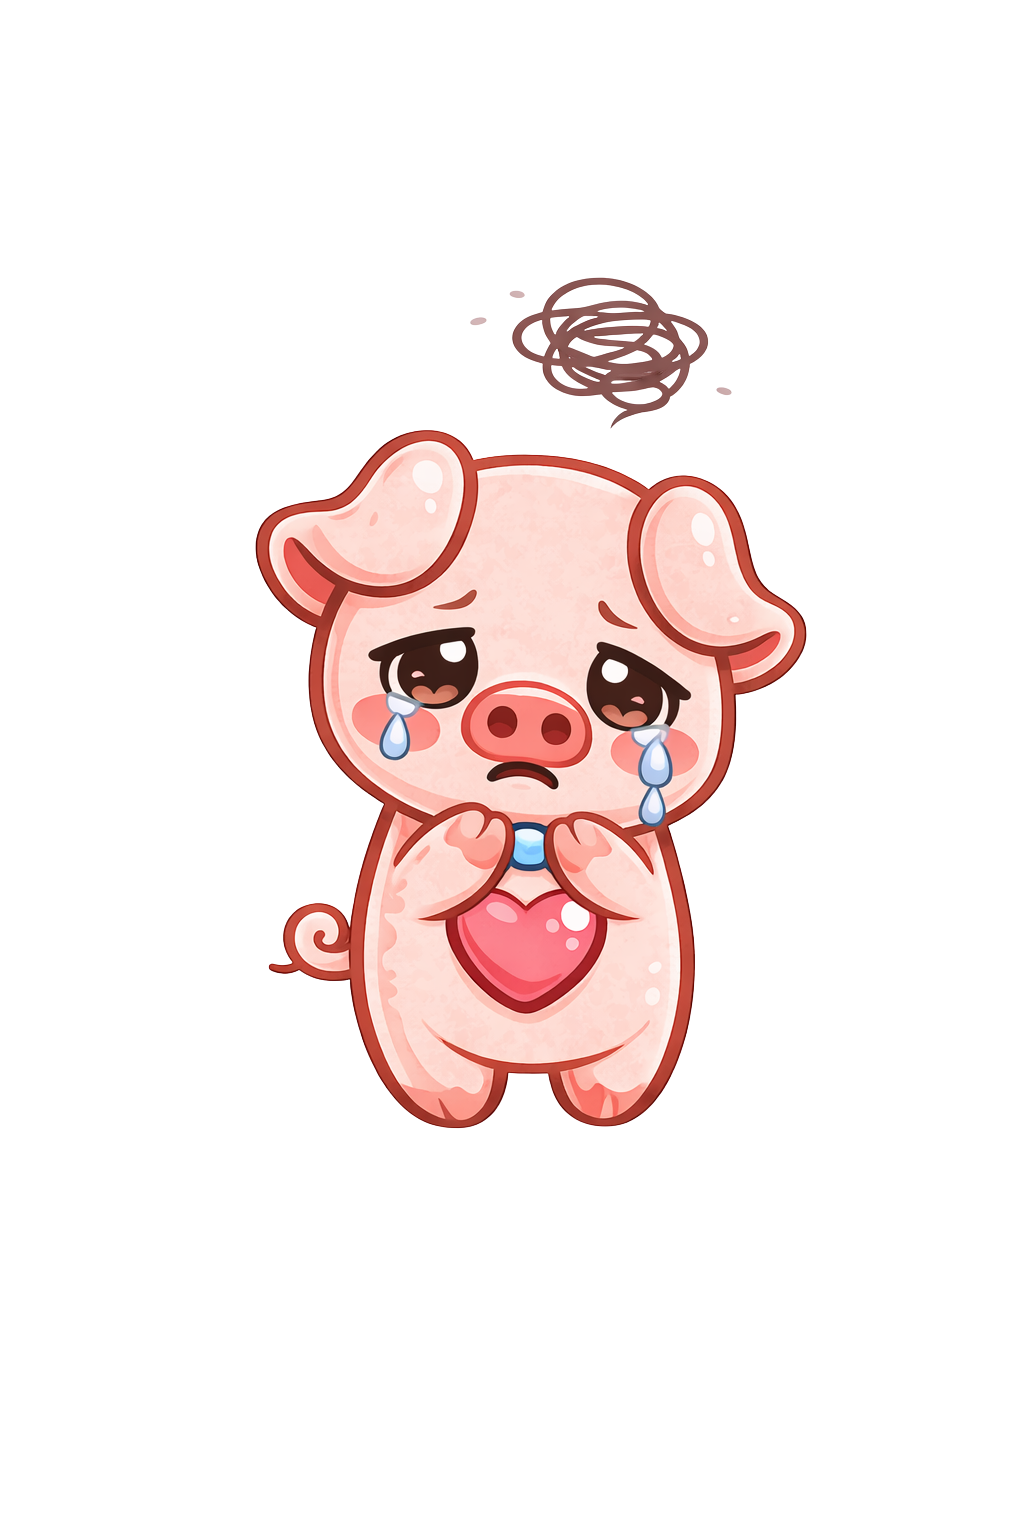
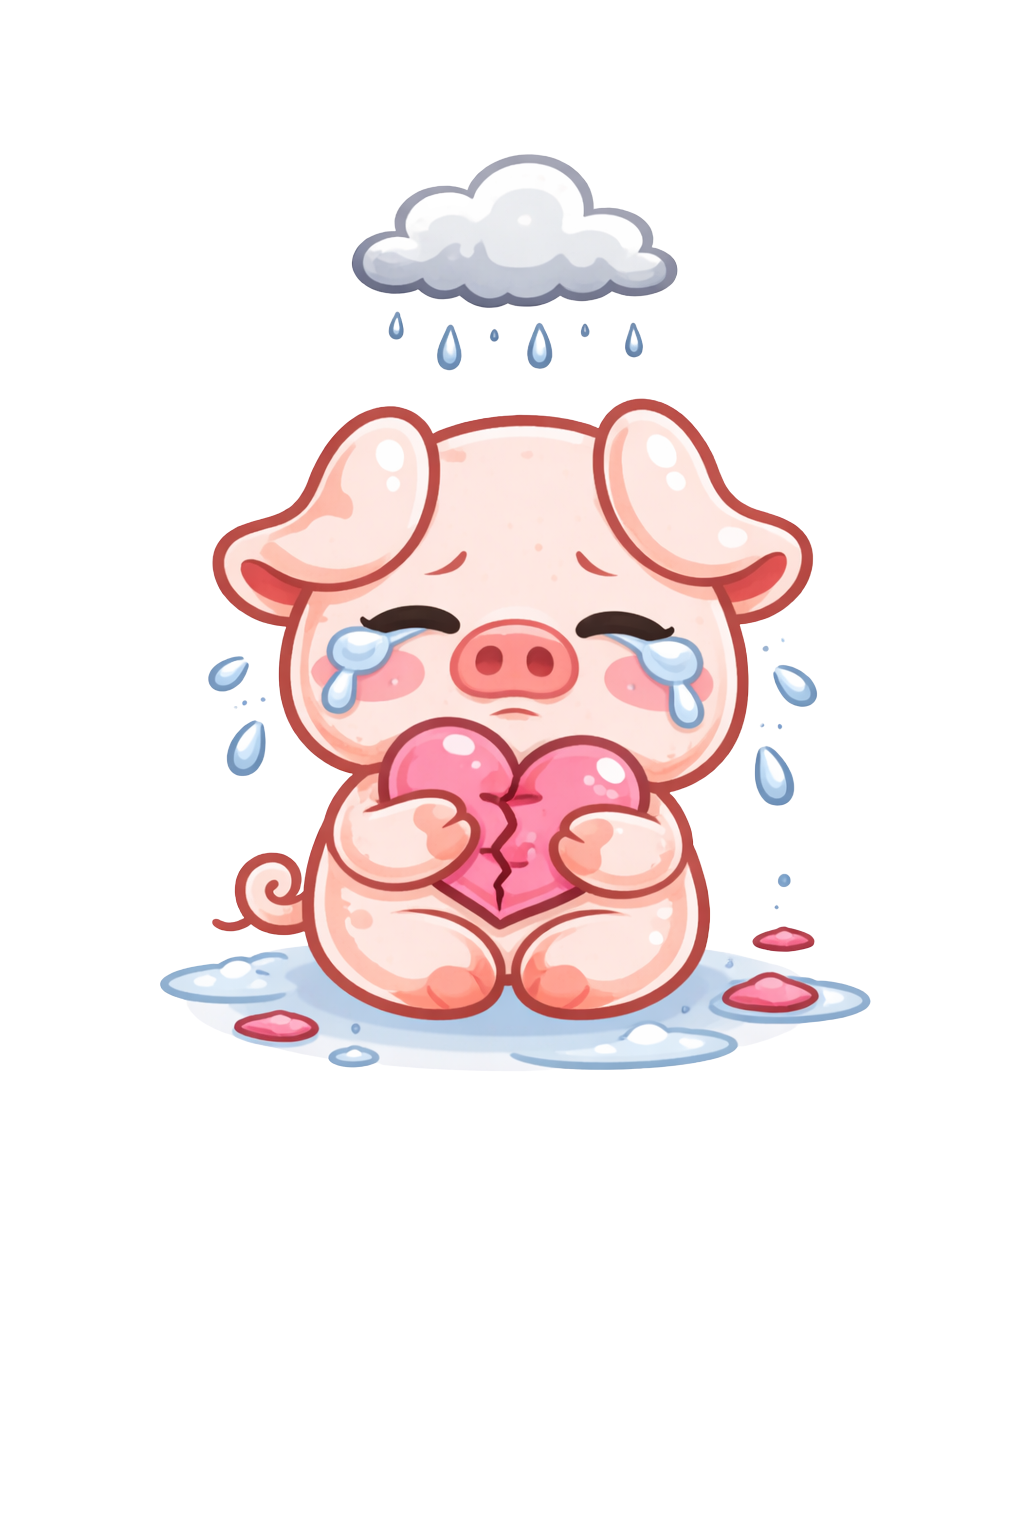
Update missing pig images (missed, dontlove, broken) and improve PC reactivity

Changed region(s): [[0.1562, 0.0938, 0.8438, 0.75]]

diff --git a/landing.js b/landing.js
@@ -404,7 +404,8 @@ document.addEventListener('DOMContentLoaded', () => {
 
     // Optimize movement for PC
     if (!isMobile) {
-        previewNoBtn.style.transition = "all 0.15s ease-out";
+        // Faster transition for snappier feel
+        previewNoBtn.style.transition = "top 0.1s ease-out, left 0.1s ease-out, transform 0.1s ease-out";
     }
 
     // Check for payment success on load

diff --git a/card.js b/card.js
@@ -258,7 +258,8 @@ document.addEventListener('DOMContentLoaded', () => {
 
     // Optimize movement for PC
     if (!isMobile) {
-        noBtn.style.transition = "all 0.15s ease-out";
+        // Faster transition for snappier feel
+        noBtn.style.transition = "top 0.1s ease-out, left 0.1s ease-out, transform 0.1s ease-out";
     }
 
     // Prevent double firing on touch devices
